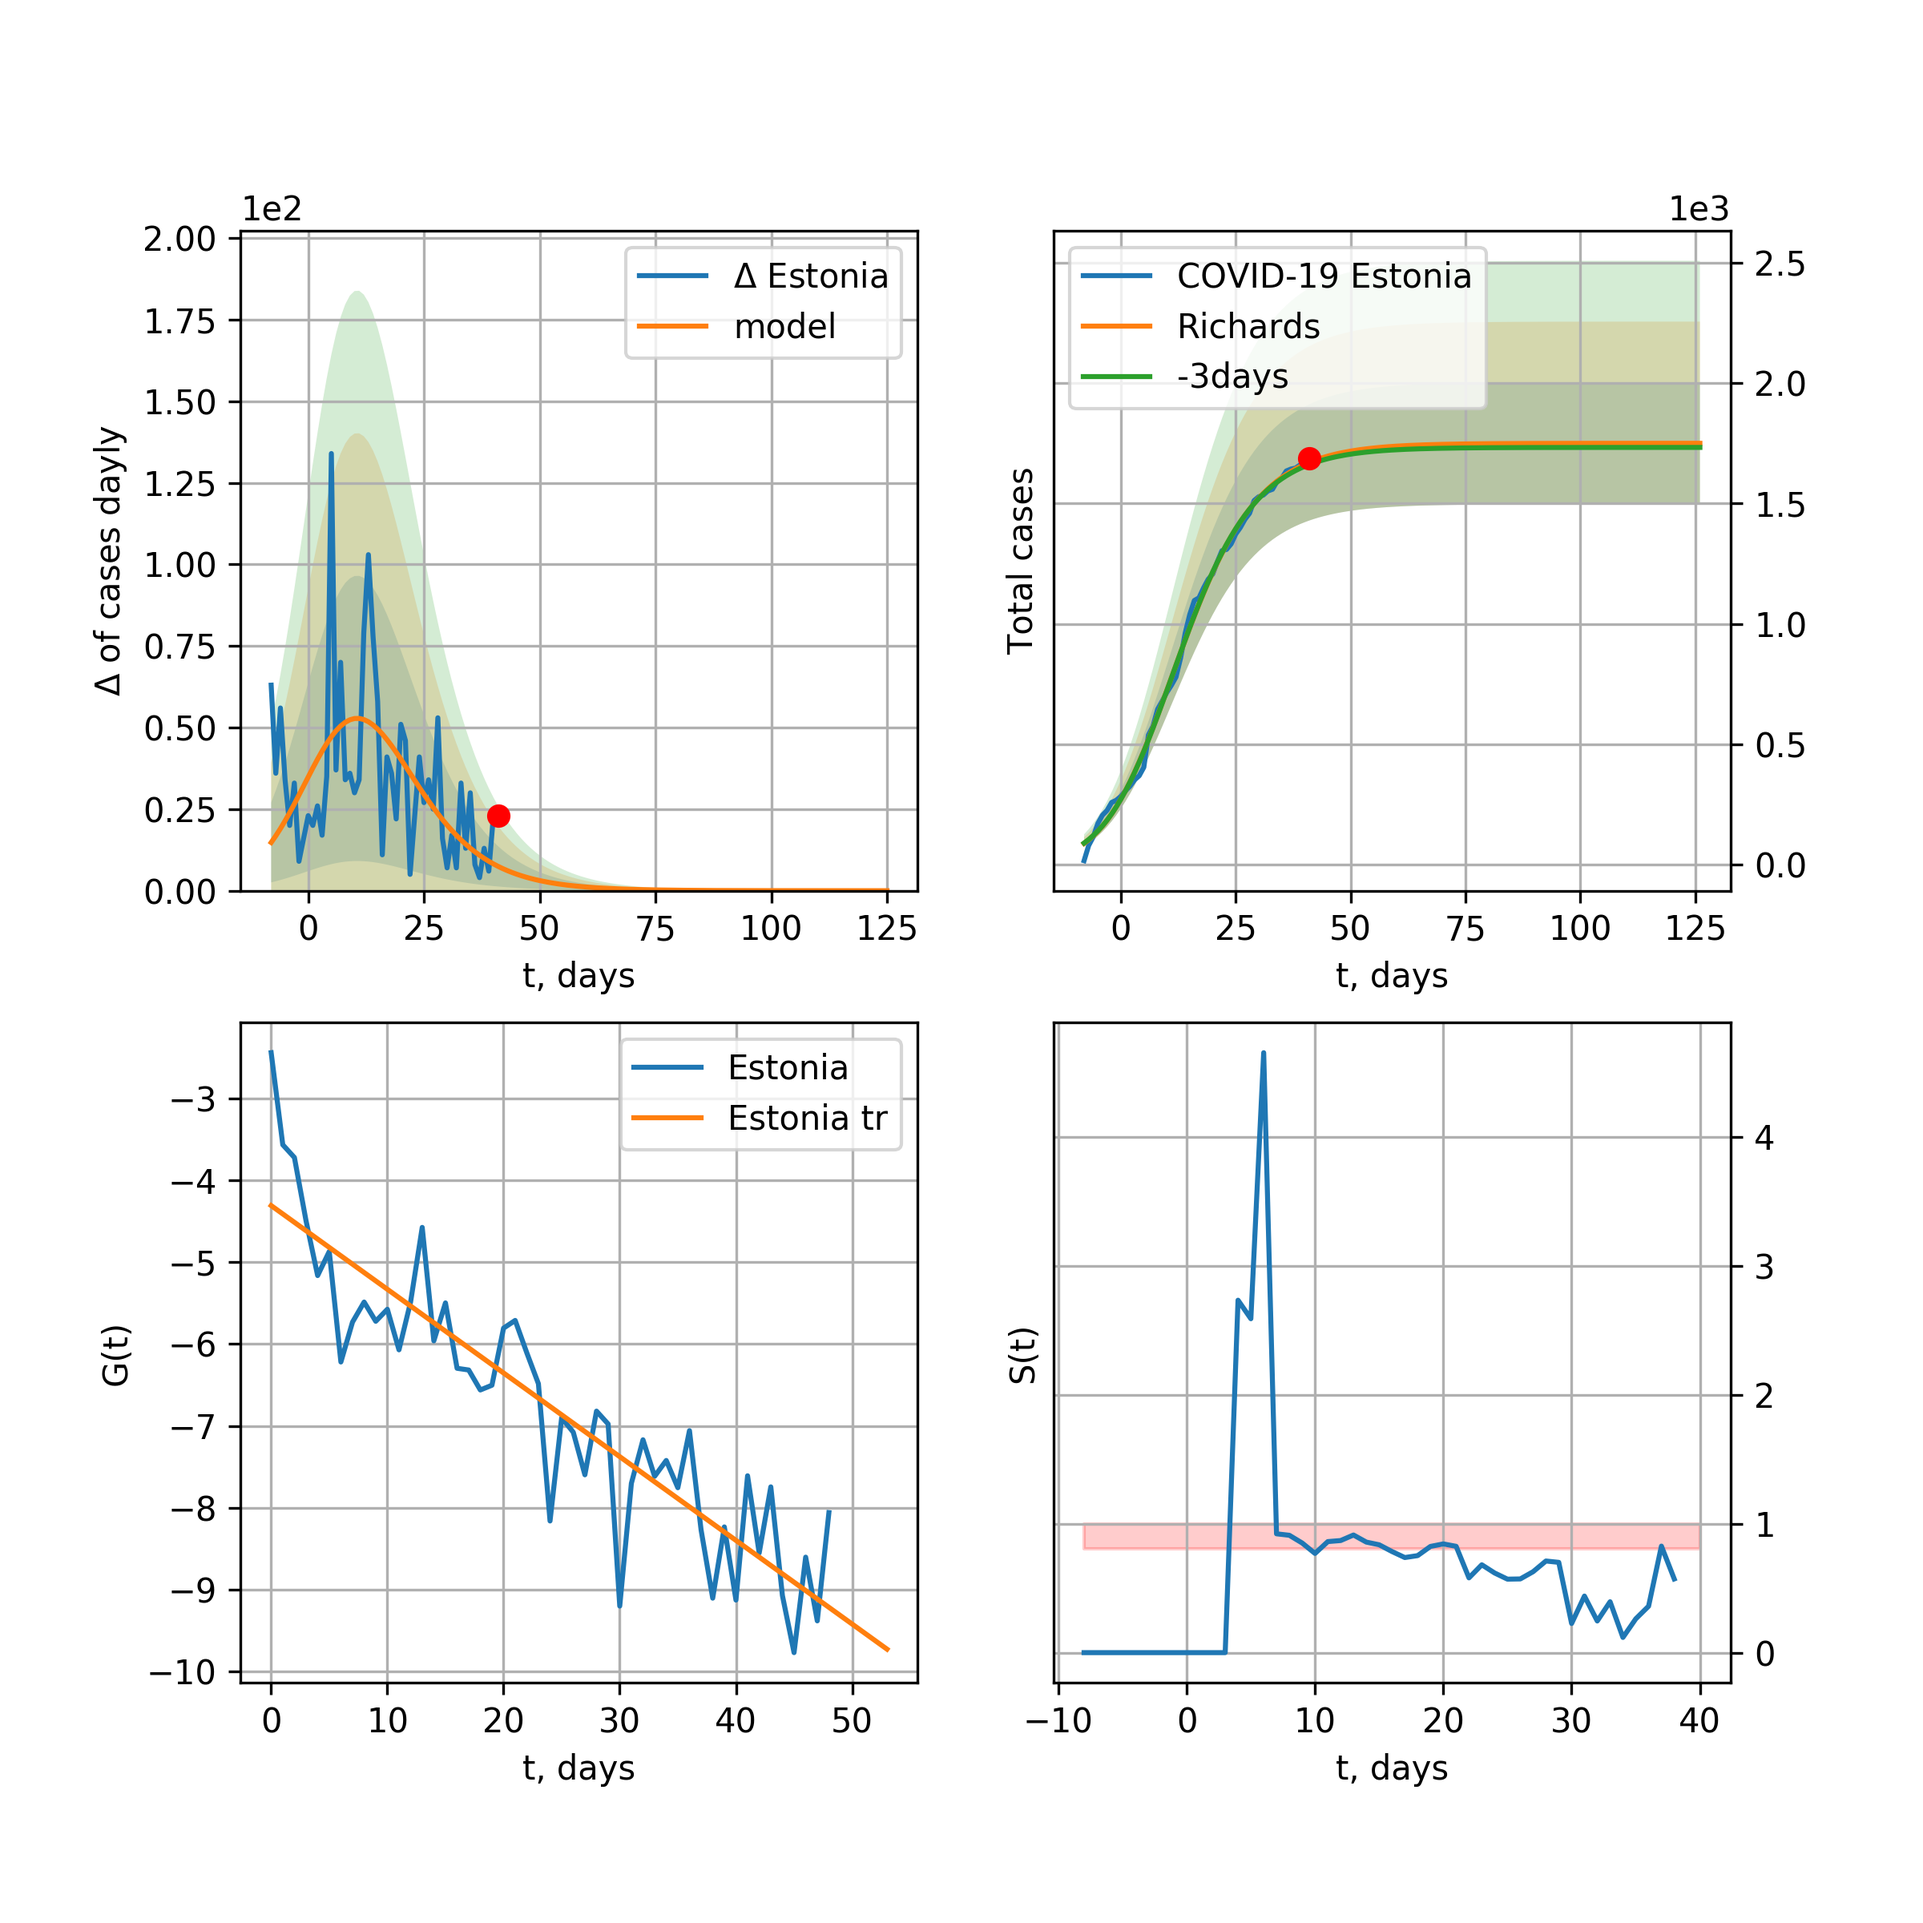
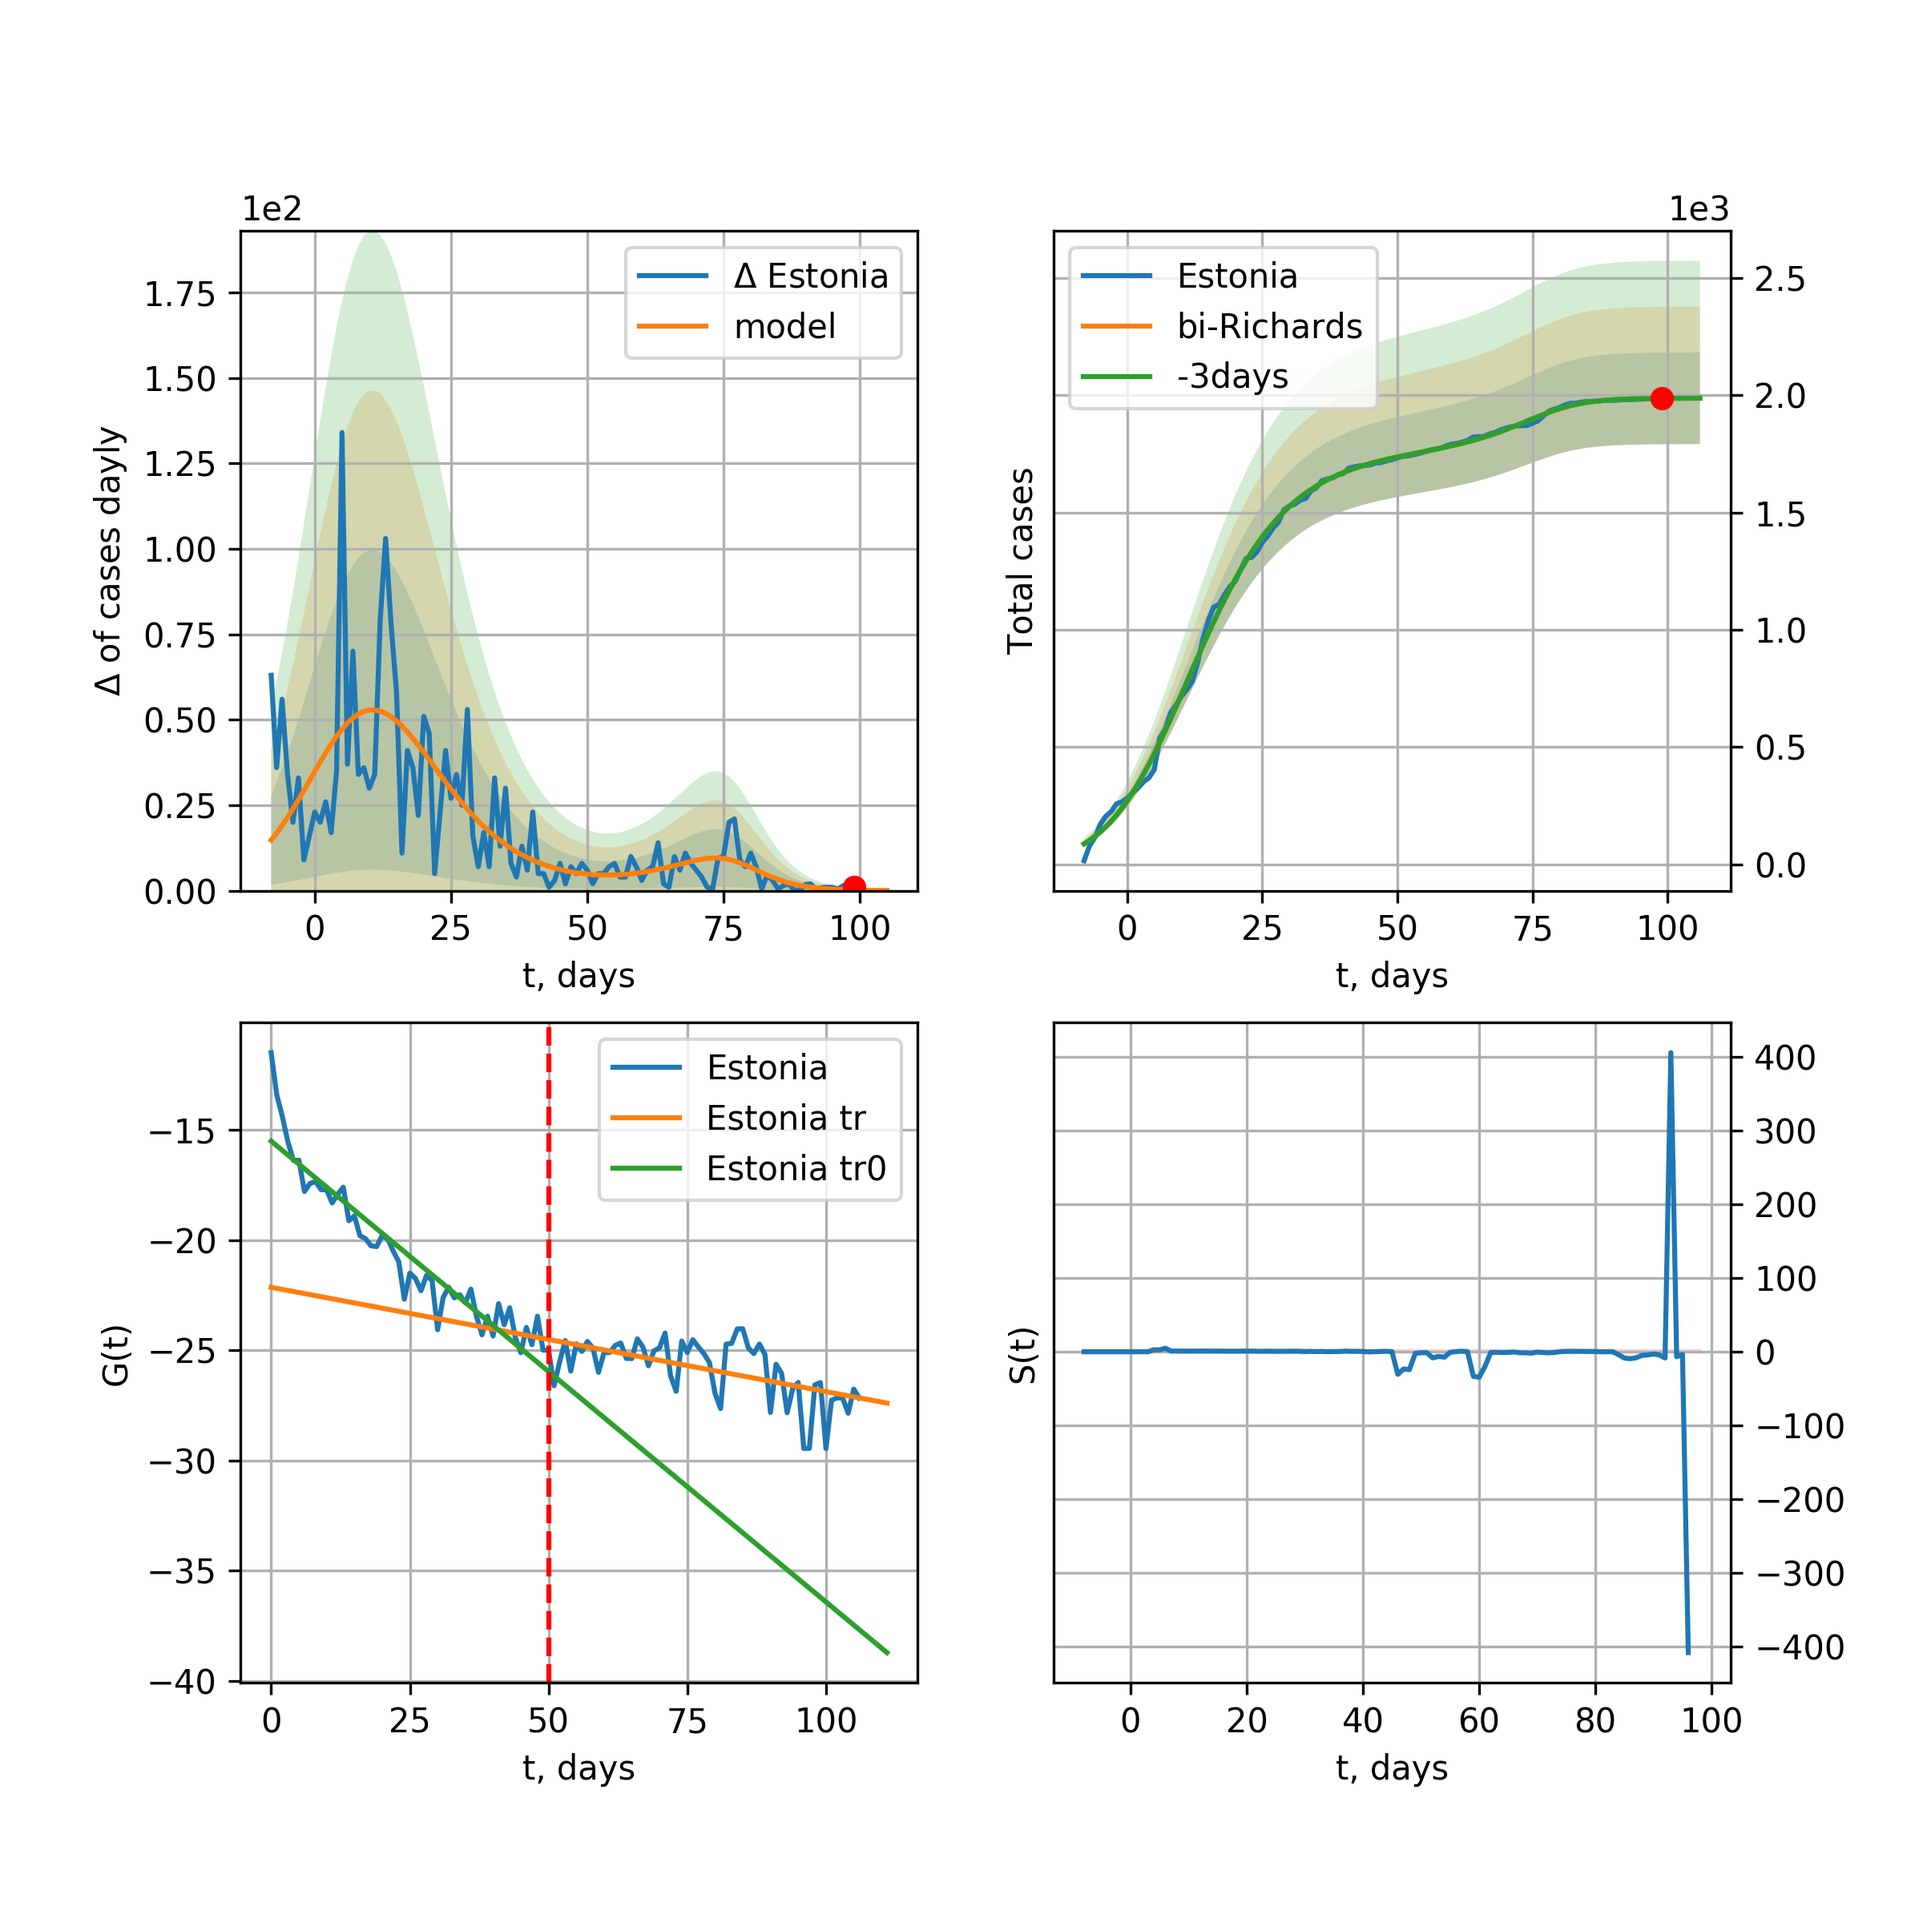
ES renew 2020-06-27

diff --git a/_site/index.html b/_site/index.html
@@ -1435,18 +1435,21 @@ trend coefficient of determination: 0.838774 <br />
     <br />
     <img src="pictures/covidcasesEstonia36_R.png" alt="hi" class="inline"/><br /> 
 
-      Estonia data at: 2020-06-26<br />
-+3 day model MAPE: 0.005500<br />
-model: Richards<br />
-coeffs: [1.74994618e+03 2.01777902e-01 4.40550518e+00 5.06367091e-01]<br />
-rational stdev: 0.144467<br />
-forecast at the end of period: +85 days<br />
+      Estonia data at: 2020-06-27<br />
++3 day model MAPE: 0.000011<br />
+model: bi-Richards<br />
+coeffs: [2.37151655e+02 8.91537020e-02 7.83756278e+01 2.57737402e+00]<br />
+rational stdev: 0.098290<br />
+forecast at the end of period: +7 days<br />
 	 deltaDaycases: 0<br />
-	 total cases: 1749 ± 252<br />
-	 total death: 60 ± 26<br />
-trend coefficient of determination: 0.813896 <br />
- intercept: -4.307388 <br />
- slope: -0.102288<br />
+	 total cases: 1986 ± 195<br />
+	 total death: 69 ± 20<br />
+bi-Richards approximation splitting point: 50<br />
+trend coefficient of determination: 0.890534 <br />
+ intercept: -15.502733 <br />
+ slope: -0.209205<br />trend coefficient of determination: 0.334899 <br />
+ intercept: -22.139105 <br />
+ slope: -0.047364<br />
           <br /> 
     
     Bulgaria
